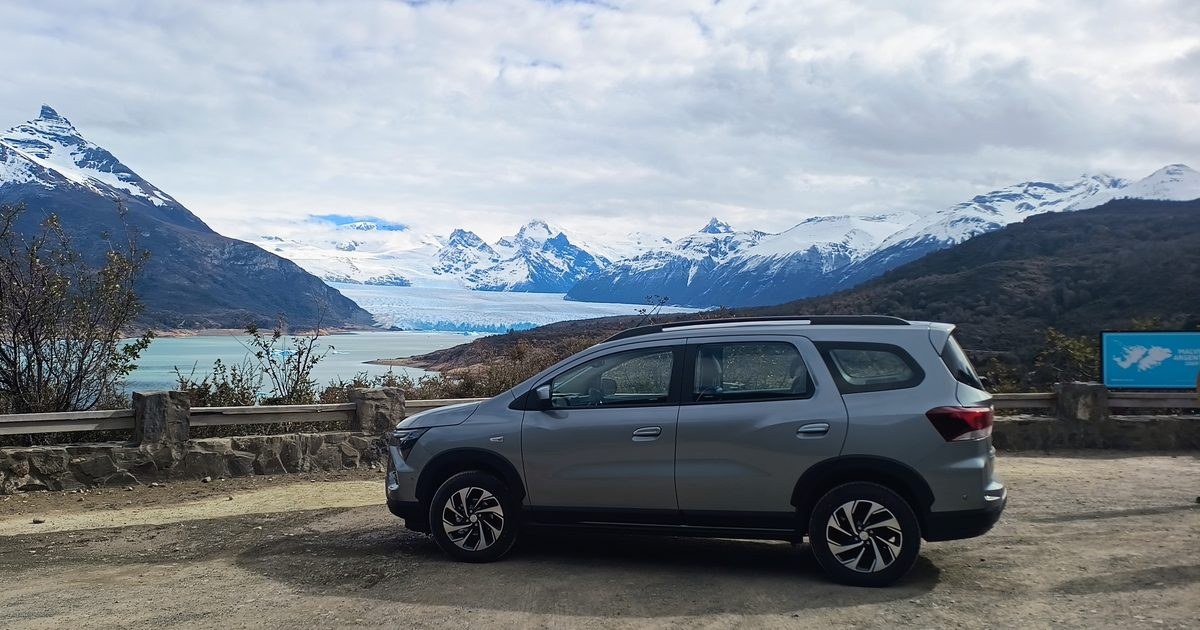
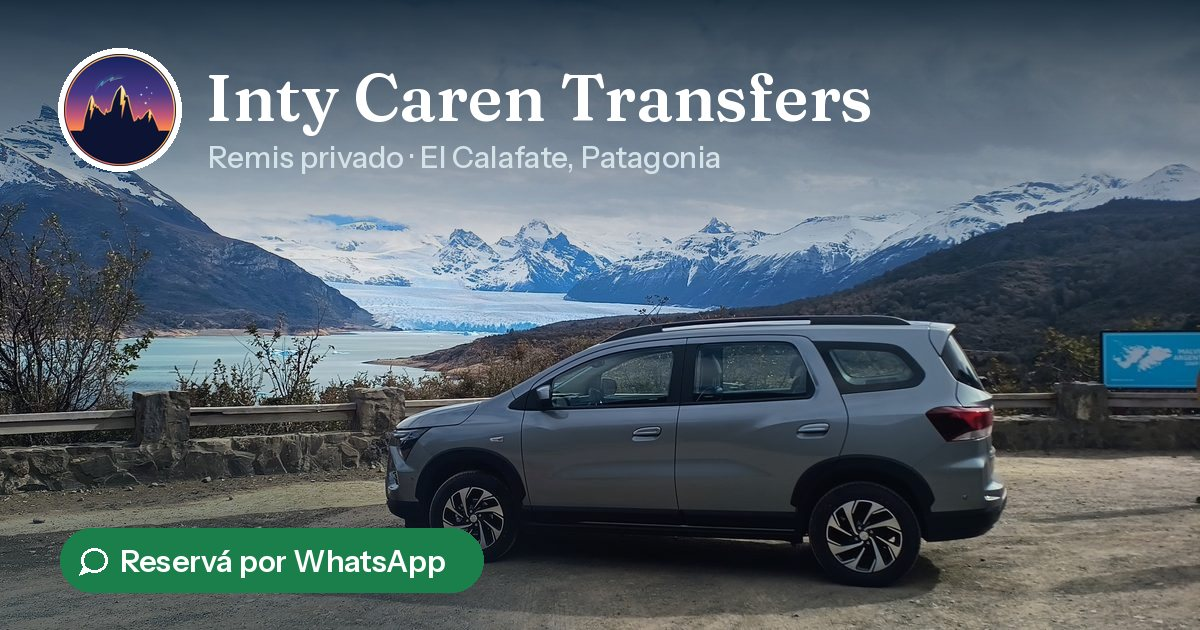
Open Graph: imagen con marca por idioma, descripción más corta y etiquetas de X

diff --git a/src/i18n/ui.ts b/src/i18n/ui.ts
@@ -18,10 +18,10 @@ const es = {
   meta: {
     title: 'Inty Caren Transfers | Remis privado en El Calafate',
     description:
-      'Traslados privados desde El Calafate en Chevrolet Spin nueva: aeropuerto, Glaciar Perito Moreno, El Chaltén, estancias y Río Gallegos.',
+      'Remis privado desde El Calafate en Chevrolet Spin nueva: aeropuerto, Perito Moreno, El Chaltén y estancias.',
     // Versión que se usa cuando SITE.chile = true
     descriptionChile:
-      'Traslados privados desde El Calafate en Chevrolet Spin nueva: aeropuerto, Glaciar Perito Moreno, El Chaltén, estancias, Río Gallegos y Chile (Puerto Natales, Punta Arenas).',
+      'Remis privado desde El Calafate en Chevrolet Spin nueva: aeropuerto, Perito Moreno, El Chaltén, estancias y Chile.',
   },
   nav: {
     destinos: 'Destinos',
@@ -153,9 +153,9 @@ const en: Dict = {
   meta: {
     title: 'Inty Caren Transfers | Private driver in El Calafate',
     description:
-      'Private transfers from El Calafate in a brand-new Chevrolet Spin: airport, Perito Moreno Glacier, El Chaltén, estancias and Río Gallegos.',
+      'Private driver from El Calafate in a brand-new Chevrolet Spin: airport, Perito Moreno, El Chaltén and estancias.',
     descriptionChile:
-      'Private transfers from El Calafate in a brand-new Chevrolet Spin: airport, Perito Moreno Glacier, El Chaltén, estancias, Río Gallegos and Chile (Puerto Natales, Punta Arenas).',
+      'Private driver from El Calafate in a brand-new Chevrolet Spin: airport, Perito Moreno, El Chaltén, estancias and Chile.',
   },
   nav: {
     destinos: 'Destinations',
@@ -285,9 +285,9 @@ const pt: Dict = {
   meta: {
     title: 'Inty Caren Transfers | Motorista particular em El Calafate',
     description:
-      'Transfers privados desde El Calafate em Chevrolet Spin nova: aeroporto, Geleira Perito Moreno, El Chaltén, estâncias e Río Gallegos.',
+      'Motorista particular desde El Calafate em Chevrolet Spin nova: aeroporto, Perito Moreno, El Chaltén e estâncias.',
     descriptionChile:
-      'Transfers privados desde El Calafate em Chevrolet Spin nova: aeroporto, Geleira Perito Moreno, El Chaltén, estâncias, Río Gallegos e Chile (Puerto Natales, Punta Arenas).',
+      'Motorista particular desde El Calafate em Chevrolet Spin nova: aeroporto, Perito Moreno, El Chaltén, estâncias e Chile.',
   },
   nav: {
     destinos: 'Destinos',
